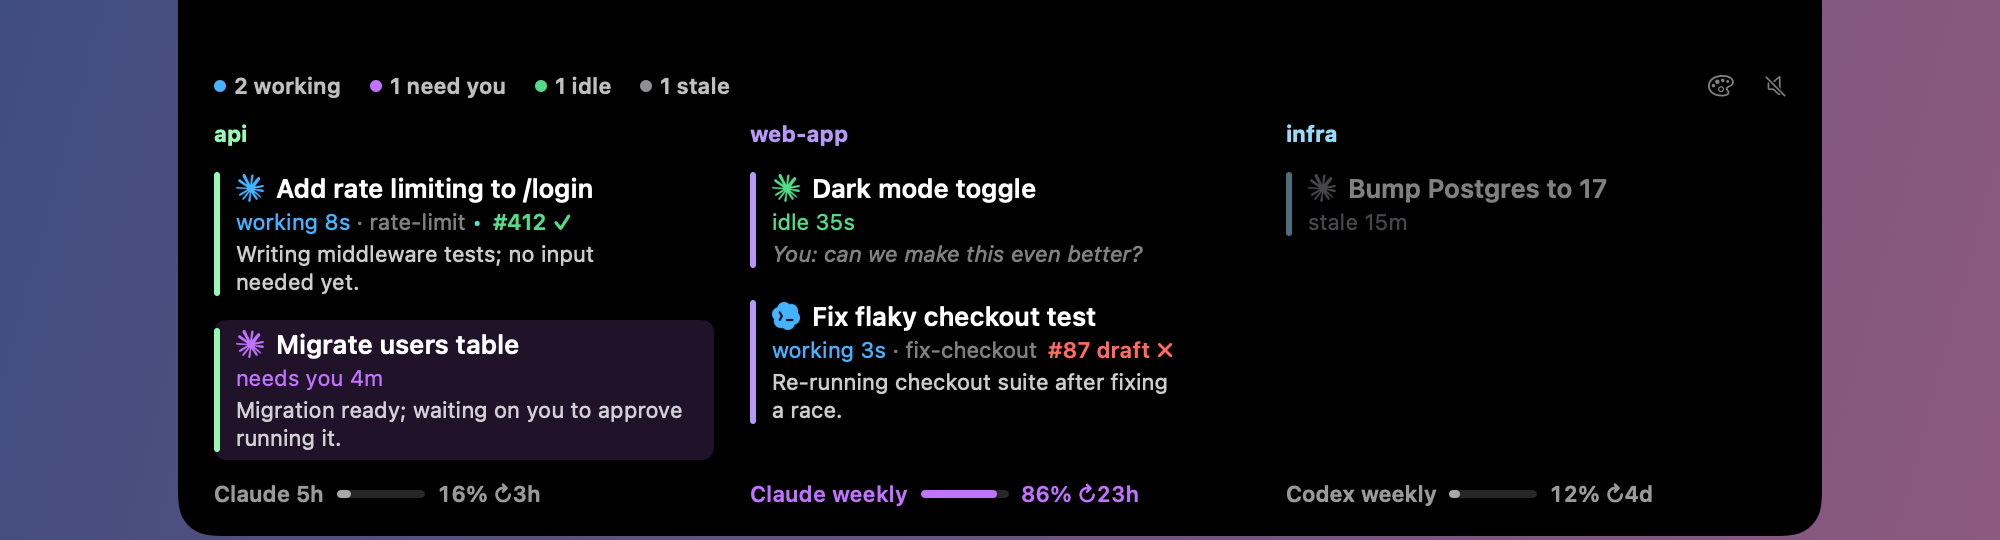
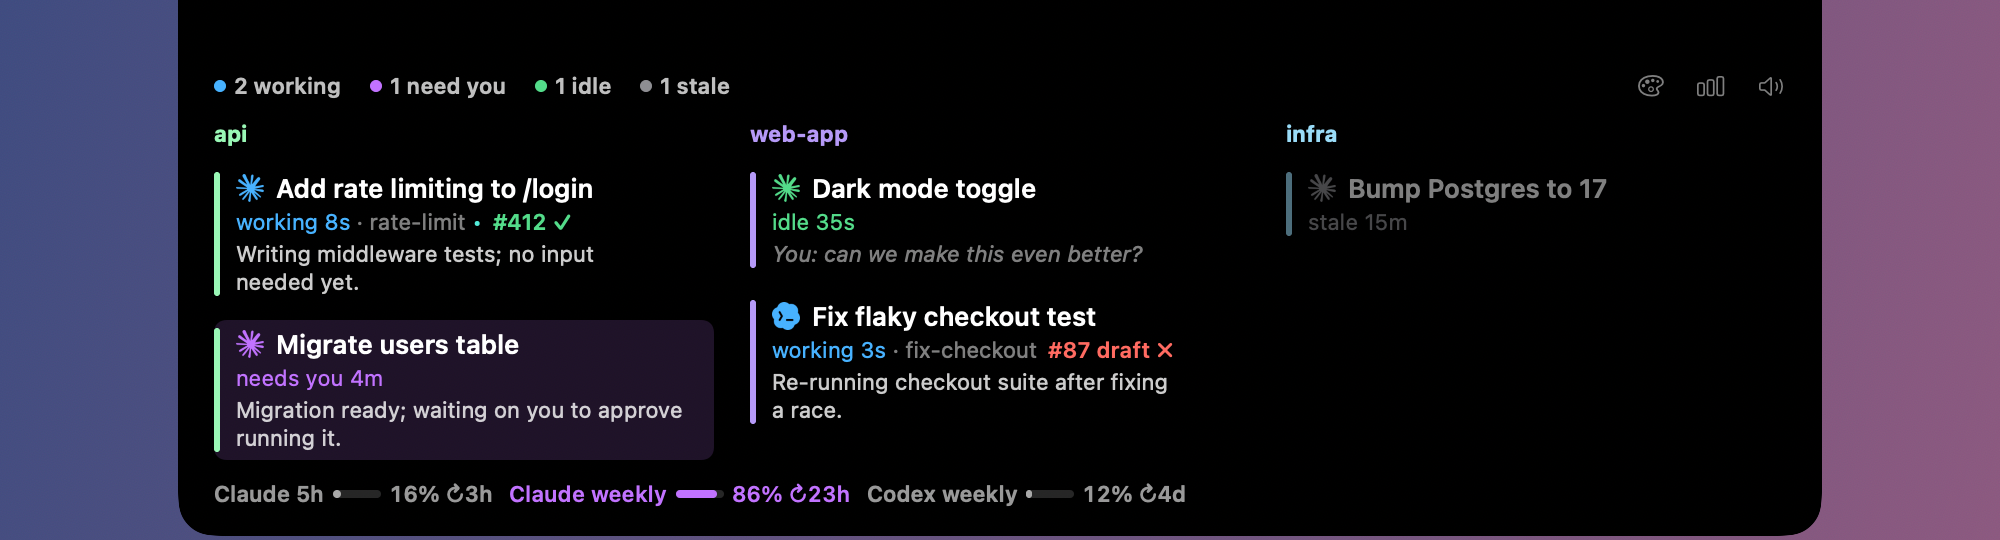
feat(notch): add a header toggle to hide the usage limits footer

Changed region(s): [[0.186, 0.8889, 0.589, 0.9481], [0.651, 0.8889, 0.837, 0.9481], [0.806, 0.1481, 0.899, 0.1778]]

diff --git a/notch/Notch.swift b/notch/Notch.swift
@@ -343,6 +343,7 @@ struct NotchView: View {
     @State private var pinned = false // a profile pick resized the panel away from the pointer: stay open until it is hovered again
     @State private var pinTimeout: DispatchWorkItem?
     @AppStorage("notificationSoundsMuted") private var notificationSoundsMuted = false
+    @AppStorage("limitsHidden") private var limitsHidden = false
     var forcedPalette: Palette? = nil // snapshots
     @StateObject var summaryPreview = SummaryPreview()
     var p: Palette { forcedPalette ?? Palette.named(paletteFlag ?? paletteID) }
@@ -372,7 +373,7 @@ struct NotchView: View {
                 } else {
                     cols
                 }
-                if !shownLimits.isEmpty {
+                if !limitsHidden && !shownLimits.isEmpty {
                     limitsFooter.frame(width: contentWidth)
                 }
             } else if let f = store.finished {
@@ -456,6 +457,7 @@ struct NotchView: View {
             count("stale", p.stale) { $0.stale == true }
             Spacer(minLength: 24)
             paletteMenu
+            limitsToggle
             soundToggle
         }.font(.system(size: 11, weight: .semibold))
     }
@@ -543,6 +545,18 @@ struct NotchView: View {
                     }
                 }
             }
+    }
+
+    var limitsToggle: some View {
+        Button { limitsHidden.toggle() } label: {
+            // no slashed chart symbol exists: the hidden state is the same icon, dimmed
+            Image(systemName: "chart.bar")
+                .font(.system(size: 11)).foregroundStyle(.white.opacity(limitsHidden ? 0.25 : 0.5))
+        }
+        .buttonStyle(.plain)
+        .help(limitsHidden ? "Show usage limits" : "Hide usage limits")
+        .accessibilityLabel(limitsHidden ? "Show usage limits" : "Hide usage limits")
+        .modifier(Clickable())
     }
 
     var soundToggle: some View {

diff --git a/tests/NotchLayoutTests.swift b/tests/NotchLayoutTests.swift
@@ -68,8 +68,12 @@ import SwiftUI
             // the live Codex reset reads "7d" right after a fetch and "6d 23h" a second later
             store.limits[1] = ToolLimits(tool: "Codex", windows: [.init(label: "weekly", used: 100, reset: "6d 23h")])
             assert(ImageRenderer(content: view).nsImage!.size.height == image.size.height, "Wider usage values should not reflow the footer for \(count) repos")
+            UserDefaults.standard.set(true, forKey: "limitsHidden")
+            let hidden = ImageRenderer(content: view).nsImage!
+            UserDefaults.standard.removeObject(forKey: "limitsHidden")
             store.limits = []
             let withoutLimits = ImageRenderer(content: view).nsImage!
+            assert(hidden.size == withoutLimits.size, "The limits toggle should hide the footer for \(count) repos")
             assert(image.size.height > withoutLimits.size.height, "Footer is missing for \(count) repos")
             if count >= 3 {
                 assert(image.size.height - withoutLimits.size.height < 28, "All three limits should fit on one row for \(count) repos")

diff --git a/README.md b/README.md
@@ -32,7 +32,7 @@ web-app
 
 - `ccs`: list sessions (`--watch` to refresh, `--json` for tools)
 - `ccs --limits`: Claude 5h/weekly and Codex usage from local caches. Add `--refresh` to fetch current limits with your existing Claude Code and Codex logins. With the default Cool palette, a bar turns violet at 80% and coral at 95%.
-- `notch`: macOS overlay; hover the notch to see sessions. Usage limits sit below the sessions with inline bars, percentages and reset times; narrow panels wrap them into rows. Palettes: Cool (default), Soft, Focus, Vivid. Click the palette icon in the panel header for the next one, right-click to pick; remembered. `--palette <id>` for one run.
+- `notch`: macOS overlay; hover the notch to see sessions. Usage limits sit below the sessions with inline bars, percentages and reset times; narrow panels wrap them into rows; click the chart icon in the panel header to hide or show them (remembered). Palettes: Cool (default), Soft, Focus, Vivid. Click the palette icon in the panel header for the next one, right-click to pick; remembered. `--palette <id>` for one run.
 - `hooks/summarize.sh`: Stop hook that writes a one-line AI summary per session (Claude: Haiku; Codex: Luna; at most once per 3 min per session)
 - `hooks/statusline.sh`: optional Claude Code status line; keeps Claude limits fresh between `/usage` cache updates
 
